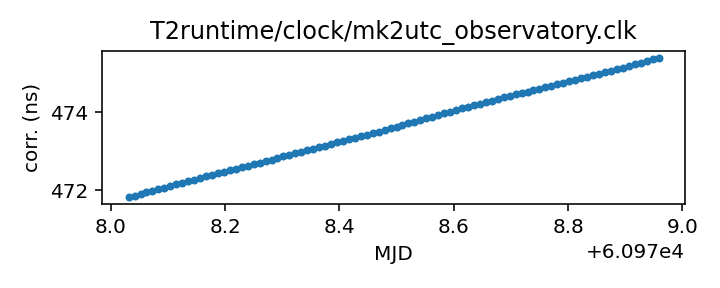
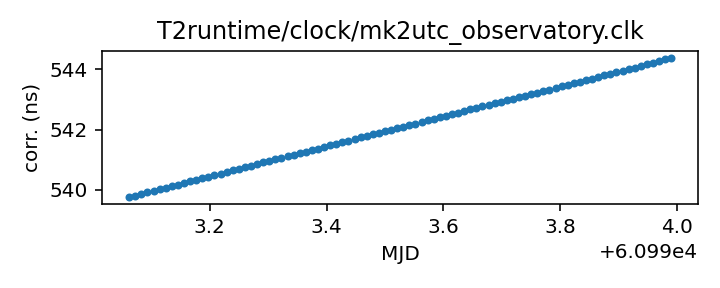
Routine gh-pages update from Github action Mon Nov 24 20:42:45 UTC 2025

diff --git a/status.md b/status.md
@@ -13,18 +13,18 @@ name of each clock file links to a page with more details.
 
 | Name | File | Corrections start | Corrections end | Last check date | Last check result 
 |:--- |:--- | --- | --- | --- |:--- 
-| [GPS to UTC](T2runtime/clock/gps2utc.clk.html) | `T2runtime/clock/gps2utc.clk` | 1993-01-01 MJD 48988.0 | 2025-10-31 MJD 60979.0 | 2025-11-23 | Unchanged 
-| [GPS to UTC (Combined Clock)](T2runtime/clock/gps2utc_cc.clk.html) | `T2runtime/clock/gps2utc_cc.clk` | 1993-01-01 MJD 48988.0 | 2025-10-31 MJD 60979.0 | 2025-11-23 | Unchanged 
-| [GPS to UTC (Corrected)](T2runtime/clock/gps2utc_c0p.clk.html) | `T2runtime/clock/gps2utc_c0p.clk` | 2010-12-29 MJD 55559.0 | 2025-10-31 MJD 60979.0 | 2025-11-23 | Unchanged 
-| [GBT](tempo/clock/time_gbt.dat.html) | `tempo/clock/time_gbt.dat` | 2000-12-31 MJD 51909.5 | 2025-11-22 MJD 61001.5 | 2025-11-23 | Updated 
-| [GBT (TEMPO2 converted from TEMPO)](T2runtime/clock/gbt2gps.clk.html) | `T2runtime/clock/gbt2gps.clk` | 2000-12-31 MJD 51909.5 | 2024-05-18 MJD 60448.5 | 2025-11-23 | **Validation failed** 
-| [Jodrell Bank](T2runtime/clock/jb2gps.clk.html) | `T2runtime/clock/jb2gps.clk` | 2006-10-13 MJD 54021.4 | 2025-10-08 MJD 60956.0 | 2025-11-17 | Unchanged 
-| [Jodrell Bank Roach](T2runtime/clock/jbroach2jb.clk.html) | `T2runtime/clock/jbroach2jb.clk` | 2006-10-13 MJD 54021.4 | 2018-03-20 MJD 58197.6 | 2025-11-17 | Unchanged 
-| [Jodrell Bank DFB](T2runtime/clock/jbdfb2jb.clk.html) | `T2runtime/clock/jbdfb2jb.clk` | 2006-10-13 MJD 54021.4 | 2021-02-22 MJD 59268.0 | 2025-11-17 | Unchanged 
-| [Meerkat (observatory)](T2runtime/clock/mk2utc_observatory.clk.html) | `T2runtime/clock/mk2utc_observatory.clk` | 2019-01-01 MJD 58484.0 | 2025-10-30 MJD 60979.0 | 2025-11-17 | Updated 
-| [Leap seconds](tempo/clock/leap.sec.html) | `tempo/clock/leap.sec` | 1972-07-01 MJD 41499.0 | 2017-01-01 MJD 57754.0 | 2025-11-23 | Unchanged 
-| [UT1 table](tempo/clock/ut1.dat.html) | `tempo/clock/ut1.dat` | 1973-01-02 MJD 41684.0 | 2026-11-28 MJD 61372.0 | 2025-11-23 | Unchanged 
-| [UT1 table](T2runtime/clock/ut1.dat.html) | `T2runtime/clock/ut1.dat` | 1973-01-02 MJD 41684.0 | 2026-11-28 MJD 61372.0 | 2025-11-23 | Unchanged 
+| [GPS to UTC](T2runtime/clock/gps2utc.clk.html) | `T2runtime/clock/gps2utc.clk` | 1993-01-01 MJD 48988.0 | 2025-10-31 MJD 60979.0 | 2025-11-24 | Unchanged 
+| [GPS to UTC (Combined Clock)](T2runtime/clock/gps2utc_cc.clk.html) | `T2runtime/clock/gps2utc_cc.clk` | 1993-01-01 MJD 48988.0 | 2025-10-31 MJD 60979.0 | 2025-11-24 | Unchanged 
+| [GPS to UTC (Corrected)](T2runtime/clock/gps2utc_c0p.clk.html) | `T2runtime/clock/gps2utc_c0p.clk` | 2010-12-29 MJD 55559.0 | 2025-10-31 MJD 60979.0 | 2025-11-24 | Unchanged 
+| [GBT](tempo/clock/time_gbt.dat.html) | `tempo/clock/time_gbt.dat` | 2000-12-31 MJD 51909.5 | 2025-11-23 MJD 61002.5 | 2025-11-24 | Updated 
+| [GBT (TEMPO2 converted from TEMPO)](T2runtime/clock/gbt2gps.clk.html) | `T2runtime/clock/gbt2gps.clk` | 2000-12-31 MJD 51909.5 | 2024-05-18 MJD 60448.5 | 2025-11-24 | **Validation failed** 
+| [Jodrell Bank](T2runtime/clock/jb2gps.clk.html) | `T2runtime/clock/jb2gps.clk` | 2006-10-13 MJD 54021.4 | 2025-10-08 MJD 60956.0 | 2025-11-24 | Unchanged 
+| [Jodrell Bank Roach](T2runtime/clock/jbroach2jb.clk.html) | `T2runtime/clock/jbroach2jb.clk` | 2006-10-13 MJD 54021.4 | 2018-03-20 MJD 58197.6 | 2025-11-24 | Unchanged 
+| [Jodrell Bank DFB](T2runtime/clock/jbdfb2jb.clk.html) | `T2runtime/clock/jbdfb2jb.clk` | 2006-10-13 MJD 54021.4 | 2021-02-22 MJD 59268.0 | 2025-11-24 | Unchanged 
+| [Meerkat (observatory)](T2runtime/clock/mk2utc_observatory.clk.html) | `T2runtime/clock/mk2utc_observatory.clk` | 2019-01-01 MJD 58484.0 | 2025-11-14 MJD 60994.0 | 2025-11-24 | Updated 
+| [Leap seconds](tempo/clock/leap.sec.html) | `tempo/clock/leap.sec` | 1972-07-01 MJD 41499.0 | 2017-01-01 MJD 57754.0 | 2025-11-24 | Unchanged 
+| [UT1 table](tempo/clock/ut1.dat.html) | `tempo/clock/ut1.dat` | 1973-01-02 MJD 41684.0 | 2026-11-28 MJD 61372.0 | 2025-11-24 | Unchanged 
+| [UT1 table](T2runtime/clock/ut1.dat.html) | `T2runtime/clock/ut1.dat` | 1973-01-02 MJD 41684.0 | 2026-11-28 MJD 61372.0 | 2025-11-24 | Unchanged 
 
 
 
@@ -68,26 +68,26 @@ name of each clock file links to a page with more details.
 
 | Name | File | Corrections start | Corrections end | Last check date | Last check result 
 |:--- |:--- | --- | --- | --- |:--- 
-| [GPS to UTC (TEMPO2)](T2runtime/clock/gpst2utc_tempo2.clk.html) | `T2runtime/clock/gpst2utc_tempo2.clk` | 1993-01-01 MJD 48988.0 | 2024-12-30 MJD 60674.0 | 2025-11-17 | Unchanged 
-| [GBT (TEMPO2)](T2runtime/clock/gbt2gps_tempo2.clk.html) | `T2runtime/clock/gbt2gps_tempo2.clk` | 2000-12-31 MJD 51909.5 | 2020-02-25 MJD 58904.5 | 2025-11-17 | Unchanged 
-| [Jodrell Bank (TEMPO)](tempo/clock/time_jb.dat.html) | `tempo/clock/time_jb.dat` | 2006-10-13 MJD 54021.4 | 2019-05-13 MJD 58616.2 | 2025-11-17 | Unchanged 
-| [VLA](tempo/clock/time_vla.dat.html) | `tempo/clock/time_vla.dat` | 1990-10-27 MJD 48191.2 | 2025-02-10 MJD 60716.2 | 2025-11-17 | Unchanged 
-| [VLA (TEMPO2)](T2runtime/clock/vla2gps.clk.html) | `T2runtime/clock/vla2gps.clk` | 2015-02-01 MJD 57054.6 | 2025-02-10 MJD 60716.2 | 2025-11-17 | Unchanged 
-| [VLA to NIST](T2runtime/clock/vla2nist.clk.html) | `T2runtime/clock/vla2nist.clk` | 1990-10-27 MJD 48191.2 | 1993-11-13 MJD 49304.0 | 2025-11-17 | Unchanged 
-| [FAST](tempo/clock/time_fast.dat.html) | `tempo/clock/time_fast.dat` | 2017-07-27 MJD 57961.0 | 2025-08-25 MJD 60913.0 | 2025-11-17 | **Failed to download** 
-| [WSRT](T2runtime/clock/wsrt2gps.clk.html) | `T2runtime/clock/wsrt2gps.clk` | 1999-01-01 MJD 51179.5 | 2015-06-29 MJD 57202.1 | 2025-11-17 | Unchanged 
-| [WSRT (TEMPO)](tempo/clock/time_wsrt.dat.html) | `tempo/clock/time_wsrt.dat` | 1987-07-24 MJD 47000.0 | 2007-12-24 MJD 54458.0 | 2025-11-17 | **Validation failed** 
-| [Parkes](T2runtime/clock/pks2gps.clk.html) | `T2runtime/clock/pks2gps.clk` | 1858-11-17 MJD 0.0 | 2025-10-31 MJD 60979.1 | 2025-11-17 | Unchanged 
-| [Parkes (TEMPO)](tempo/clock/time_pks.dat.html) | `tempo/clock/time_pks.dat` | 1979-05-07 MJD 44000.0 | 2011-07-03 MJD 55745.8 | 2025-11-17 | Unchanged 
-| [SRT](T2runtime/clock/srt2gps.clk.html) | `T2runtime/clock/srt2gps.clk` | 2013-03-20 MJD 56371.0 | 2019-12-11 MJD 58828.0 | 2025-11-17 | Unchanged 
-| [Effelsberg](T2runtime/clock/eff2gps.clk.html) | `T2runtime/clock/eff2gps.clk` | 1993-11-29 MJD 49320.0 | 2015-06-22 MJD 57195.5 | 2025-11-17 | Unchanged 
-| [Effelsberg Asterix/PSRix](T2runtime/clock/effix2gps.clk.html) | `T2runtime/clock/effix2gps.clk` | 2011-01-01 MJD 55562.5 | 2021-03-21 MJD 59294.5 | 2025-11-17 | Unchanged 
-| [LEAP](T2runtime/clock/leap2effix.clk.html) | `T2runtime/clock/leap2effix.clk` | 2012-10-29 MJD 56230.0 | 2014-03-04 MJD 56720.0 | 2025-11-17 | Unchanged 
-| [NUPPI](tempo/clock/time_nuppi.dat.html) | `tempo/clock/time_nuppi.dat` | 2005-03-07 MJD 53436.0 | 2015-11-08 MJD 57334.6 | 2025-11-17 | Unchanged 
-| [Meerkat (TEMPO2)](T2runtime/clock/mk2utc.clk.html) | `T2runtime/clock/mk2utc.clk` | 2019-01-01 MJD 58484.0 | 2024-09-23 MJD 60576.9 | 2025-11-17 | **Validation failed** 
-| [MOST](T2runtime/clock/mo2gps.clk.html) | `T2runtime/clock/mo2gps.clk` | 2003-12-27 MJD 53000.0 | 2018-09-06 MJD 58367.0 | 2025-11-17 | Unchanged 
-| [Nancay to obspm](T2runtime/clock/ncyobs2obspm.clk.html) | `T2runtime/clock/ncyobs2obspm.clk` | 1988-05-18 MJD 47299.6 | 2024-12-30 MJD 60674.0 | 2025-11-17 | Unchanged 
-| [obspm](T2runtime/clock/obspm2gps.clk.html) | `T2runtime/clock/obspm2gps.clk` | 2003-12-01 MJD 52974.0 | 2023-10-27 MJD 60244.0 | 2025-11-17 | Unchanged 
+| [GPS to UTC (TEMPO2)](T2runtime/clock/gpst2utc_tempo2.clk.html) | `T2runtime/clock/gpst2utc_tempo2.clk` | 1993-01-01 MJD 48988.0 | 2024-12-30 MJD 60674.0 | 2025-11-24 | Unchanged 
+| [GBT (TEMPO2)](T2runtime/clock/gbt2gps_tempo2.clk.html) | `T2runtime/clock/gbt2gps_tempo2.clk` | 2000-12-31 MJD 51909.5 | 2020-02-25 MJD 58904.5 | 2025-11-24 | Unchanged 
+| [Jodrell Bank (TEMPO)](tempo/clock/time_jb.dat.html) | `tempo/clock/time_jb.dat` | 2006-10-13 MJD 54021.4 | 2019-05-13 MJD 58616.2 | 2025-11-24 | Unchanged 
+| [VLA](tempo/clock/time_vla.dat.html) | `tempo/clock/time_vla.dat` | 1990-10-27 MJD 48191.2 | 2025-02-10 MJD 60716.2 | 2025-11-24 | Unchanged 
+| [VLA (TEMPO2)](T2runtime/clock/vla2gps.clk.html) | `T2runtime/clock/vla2gps.clk` | 2015-02-01 MJD 57054.6 | 2025-02-10 MJD 60716.2 | 2025-11-24 | Unchanged 
+| [VLA to NIST](T2runtime/clock/vla2nist.clk.html) | `T2runtime/clock/vla2nist.clk` | 1990-10-27 MJD 48191.2 | 1993-11-13 MJD 49304.0 | 2025-11-24 | Unchanged 
+| [FAST](tempo/clock/time_fast.dat.html) | `tempo/clock/time_fast.dat` | 2017-07-27 MJD 57961.0 | 2025-08-25 MJD 60913.0 | 2025-11-24 | **Failed to download** 
+| [WSRT](T2runtime/clock/wsrt2gps.clk.html) | `T2runtime/clock/wsrt2gps.clk` | 1999-01-01 MJD 51179.5 | 2015-06-29 MJD 57202.1 | 2025-11-24 | Unchanged 
+| [WSRT (TEMPO)](tempo/clock/time_wsrt.dat.html) | `tempo/clock/time_wsrt.dat` | 1987-07-24 MJD 47000.0 | 2007-12-24 MJD 54458.0 | 2025-11-24 | **Validation failed** 
+| [Parkes](T2runtime/clock/pks2gps.clk.html) | `T2runtime/clock/pks2gps.clk` | 1858-11-17 MJD 0.0 | 2025-10-31 MJD 60979.1 | 2025-11-24 | Unchanged 
+| [Parkes (TEMPO)](tempo/clock/time_pks.dat.html) | `tempo/clock/time_pks.dat` | 1979-05-07 MJD 44000.0 | 2011-07-03 MJD 55745.8 | 2025-11-24 | Unchanged 
+| [SRT](T2runtime/clock/srt2gps.clk.html) | `T2runtime/clock/srt2gps.clk` | 2013-03-20 MJD 56371.0 | 2019-12-11 MJD 58828.0 | 2025-11-24 | Unchanged 
+| [Effelsberg](T2runtime/clock/eff2gps.clk.html) | `T2runtime/clock/eff2gps.clk` | 1993-11-29 MJD 49320.0 | 2015-06-22 MJD 57195.5 | 2025-11-24 | Unchanged 
+| [Effelsberg Asterix/PSRix](T2runtime/clock/effix2gps.clk.html) | `T2runtime/clock/effix2gps.clk` | 2011-01-01 MJD 55562.5 | 2021-03-21 MJD 59294.5 | 2025-11-24 | Unchanged 
+| [LEAP](T2runtime/clock/leap2effix.clk.html) | `T2runtime/clock/leap2effix.clk` | 2012-10-29 MJD 56230.0 | 2014-03-04 MJD 56720.0 | 2025-11-24 | Unchanged 
+| [NUPPI](tempo/clock/time_nuppi.dat.html) | `tempo/clock/time_nuppi.dat` | 2005-03-07 MJD 53436.0 | 2015-11-08 MJD 57334.6 | 2025-11-24 | Unchanged 
+| [Meerkat (TEMPO2)](T2runtime/clock/mk2utc.clk.html) | `T2runtime/clock/mk2utc.clk` | 2019-01-01 MJD 58484.0 | 2024-09-23 MJD 60576.9 | 2025-11-24 | **Validation failed** 
+| [MOST](T2runtime/clock/mo2gps.clk.html) | `T2runtime/clock/mo2gps.clk` | 2003-12-27 MJD 53000.0 | 2018-09-06 MJD 58367.0 | 2025-11-24 | Unchanged 
+| [Nancay to obspm](T2runtime/clock/ncyobs2obspm.clk.html) | `T2runtime/clock/ncyobs2obspm.clk` | 1988-05-18 MJD 47299.6 | 2024-12-30 MJD 60674.0 | 2025-11-24 | Unchanged 
+| [obspm](T2runtime/clock/obspm2gps.clk.html) | `T2runtime/clock/obspm2gps.clk` | 2003-12-01 MJD 52974.0 | 2023-10-27 MJD 60244.0 | 2025-11-24 | Unchanged 
 
 
 ### Further information:

diff --git a/T2runtime/clock/mk2utc_observatory.clk.md b/T2runtime/clock/mk2utc_observatory.clk.md
@@ -19,14 +19,13 @@ If questions arise, contact Ryan Shannon <rshannon@swin.edu.au>
 | Format | tempo2 |
 | Bogus last correction | False |
 | Clock file start | 2019-01-01 MJD 58484.0 |
-| Clock file end | 2025-10-30 MJD 60979.0 |
+| Clock file end | 2025-11-14 MJD 60994.0 |
 | Update interval (days) | 7 |
-| Last update attempt | 2025-11-17 |
+| Last update attempt | 2025-11-24 |
 | Last update result | Updated |
 
 Log entries from the last few update attempts:
 ```
-2025-09-15 20:38:23.219 - Unchanged
 2025-09-22 20:40:19.530 - Validation failed: Unable to read new version of T2runtime/clock/mk2utc_observatory.clk: Clock file /tmp/astropy-download-3290-2dyj3b3u appears to be out of order: 60933.96875 > 60929.0
 2025-09-29 20:37:22.935 - Validation failed: Unable to read new version of T2runtime/clock/mk2utc_observatory.clk: Clock file /tmp/astropy-download-3302-dwp2zb0z appears to be out of order: 60933.96875 > 60929.0
 2025-10-06 20:40:07.077 - Validation failed: Unable to read new version of T2runtime/clock/mk2utc_observatory.clk: Clock file /tmp/astropy-download-3288-vga3zoa1 appears to be out of order: 60933.96875 > 60929.0
@@ -36,6 +35,7 @@ Log entries from the last few update attempts:
 2025-11-03 20:42:59.579 - Unchanged
 2025-11-10 20:44:57.437 - Failed to download: <urlopen error _ssl.c:999: The handshake operation timed out>
 2025-11-17 20:41:48.816 - Updated
+2025-11-24 20:42:17.159 - Updated
 ```
 [Full log](https://raw.githubusercontent.com/ipta/pulsar-clock-corrections/main/log/T2runtime/clock/mk2utc_observatory.clk.log)
 
@@ -44,7 +44,7 @@ Leading comments from clock file:
     # Tie of Karoo Telescope Time to UTC
     # This file is from the KTT-GNSS sensor, and does not include circular-T
     # MJD = (SensorTime(us)/86400e6)+40587    15-minute snapshots
-    # Created at unix time 1762257342.154564 from KTT mySQL database.
+    # Created at unix time 1763626920.271524 from KTT mySQL database.
     #
     # MJD (days)   KTT-UTC (seconds)
     #------------------------------------------------------

diff --git a/T2runtime/clock/gbt2gps.clk.md b/T2runtime/clock/gbt2gps.clk.md
@@ -25,12 +25,11 @@ If questions arise about the conversion, contact Anne Archibald
 | Clock file start | 2000-12-31 MJD 51909.5 |
 | Clock file end | 2024-05-18 MJD 60448.5 |
 | Update interval (days) | 1 |
-| Last update attempt | 2025-11-23 |
+| Last update attempt | 2025-11-24 |
 | Last update result | Validation failed |
 
 Log entries from the last few update attempts:
 ```
-2025-11-13 20:43:23.608 - Validation failed: New version of T2runtime/clock/gbt2gps.clk MJDs differ from old version where they overlap in 8407 places
 2025-11-14 20:42:18.795 - Validation failed: New version of T2runtime/clock/gbt2gps.clk MJDs differ from old version where they overlap in 8407 places
 2025-11-15 20:37:59.275 - Validation failed: New version of T2runtime/clock/gbt2gps.clk MJDs differ from old version where they overlap in 8407 places
 2025-11-16 20:40:00.662 - Validation failed: New version of T2runtime/clock/gbt2gps.clk MJDs differ from old version where they overlap in 8407 places
@@ -40,6 +39,7 @@ Log entries from the last few update attempts:
 2025-11-21 20:42:46.605 - Validation failed: New version of T2runtime/clock/gbt2gps.clk MJDs differ from old version where they overlap in 8407 places
 2025-11-22 20:40:08.749 - Validation failed: New version of T2runtime/clock/gbt2gps.clk MJDs differ from old version where they overlap in 8407 places
 2025-11-23 20:41:32.231 - Validation failed: New version of T2runtime/clock/gbt2gps.clk MJDs differ from old version where they overlap in 8407 places
+2025-11-24 20:42:02.414 - Validation failed: New version of T2runtime/clock/gbt2gps.clk MJDs differ from old version where they overlap in 8407 places
 ```
 [Full log](https://raw.githubusercontent.com/ipta/pulsar-clock-corrections/main/log/T2runtime/clock/gbt2gps.clk.log)
 

diff --git a/T2runtime/clock/mk2utc.clk.md b/T2runtime/clock/mk2utc.clk.md
@@ -17,12 +17,11 @@ up-to-date.
 | Clock file start | 2019-01-01 MJD 58484.0 |
 | Clock file end | 2024-09-23 MJD 60576.9 |
 | Update interval (days) | 7 |
-| Last update attempt | 2025-11-17 |
+| Last update attempt | 2025-11-24 |
 | Last update result | Validation failed |
 
 Log entries from the last few update attempts:
 ```
-2025-09-15 20:38:24.488 - Validation failed: New version of T2runtime/clock/mk2utc.clk MJDs differ from old version where they overlap in 8252 places
 2025-09-22 20:40:21.203 - Validation failed: New version of T2runtime/clock/mk2utc.clk MJDs differ from old version where they overlap in 8252 places
 2025-09-29 20:37:24.227 - Validation failed: New version of T2runtime/clock/mk2utc.clk MJDs differ from old version where they overlap in 8252 places
 2025-10-06 20:40:08.391 - Validation failed: New version of T2runtime/clock/mk2utc.clk MJDs differ from old version where they overlap in 8252 places
@@ -32,6 +31,7 @@ Log entries from the last few update attempts:
 2025-11-03 20:43:01.067 - Validation failed: New version of T2runtime/clock/mk2utc.clk MJDs differ from old version where they overlap in 8252 places
 2025-11-10 20:44:59.209 - Validation failed: New version of T2runtime/clock/mk2utc.clk MJDs differ from old version where they overlap in 8252 places
 2025-11-17 20:41:50.637 - Validation failed: New version of T2runtime/clock/mk2utc.clk MJDs differ from old version where they overlap in 8252 places
+2025-11-24 20:42:18.833 - Validation failed: New version of T2runtime/clock/mk2utc.clk MJDs differ from old version where they overlap in 8252 places
 ```
 [Full log](https://raw.githubusercontent.com/ipta/pulsar-clock-corrections/main/log/T2runtime/clock/mk2utc.clk.log)
 

diff --git a/tempo/clock/time_wsrt.dat.md b/tempo/clock/time_wsrt.dat.md
@@ -20,12 +20,11 @@ should be the same information.
 | Clock file start | 1987-07-24 MJD 47000.0 |
 | Clock file end | 2007-12-24 MJD 54458.0 |
 | Update interval (days) | 7 |
-| Last update attempt | 2025-11-17 |
+| Last update attempt | 2025-11-24 |
 | Last update result | Validation failed |
 
 Log entries from the last few update attempts:
 ```
-2025-09-15 20:38:14.339 - Validation failed: New version of tempo/clock/time_wsrt.dat MJDs differ from old version where they overlap in 5 places
 2025-09-22 20:40:04.220 - Validation failed: New version of tempo/clock/time_wsrt.dat MJDs differ from old version where they overlap in 5 places
 2025-09-29 20:37:17.520 - Validation failed: New version of tempo/clock/time_wsrt.dat MJDs differ from old version where they overlap in 5 places
 2025-10-06 20:39:57.443 - Validation failed: New version of tempo/clock/time_wsrt.dat MJDs differ from old version where they overlap in 5 places
@@ -35,6 +34,7 @@ Log entries from the last few update attempts:
 2025-11-03 20:42:27.208 - Validation failed: New version of tempo/clock/time_wsrt.dat MJDs differ from old version where they overlap in 5 places
 2025-11-10 20:44:41.093 - Validation failed: New version of tempo/clock/time_wsrt.dat MJDs differ from old version where they overlap in 5 places
 2025-11-17 20:41:29.092 - Validation failed: New version of tempo/clock/time_wsrt.dat MJDs differ from old version where they overlap in 5 places
+2025-11-24 20:42:06.542 - Validation failed: New version of tempo/clock/time_wsrt.dat MJDs differ from old version where they overlap in 5 places
 ```
 [Full log](https://raw.githubusercontent.com/ipta/pulsar-clock-corrections/main/log/tempo/clock/time_wsrt.dat.log)
 

diff --git a/tempo/clock/time_gbt.dat.md b/tempo/clock/time_gbt.dat.md
@@ -36,14 +36,13 @@ If questions arise, contact Ryan S. Lynch <rlynch@nrao.edu>.
 | Format | tempo |
 | Bogus last correction | False |
 | Clock file start | 2000-12-31 MJD 51909.5 |
-| Clock file end | 2025-11-22 MJD 61001.5 |
+| Clock file end | 2025-11-23 MJD 61002.5 |
 | Update interval (days) | 1 |
-| Last update attempt | 2025-11-23 |
+| Last update attempt | 2025-11-24 |
 | Last update result | Updated |
 
 Log entries from the last few update attempts:
 ```
-2025-11-13 20:43:23.541 - Updated
 2025-11-14 20:42:18.731 - Updated
 2025-11-15 20:37:59.208 - Updated
 2025-11-16 20:40:00.594 - Updated
@@ -53,12 +52,13 @@ Log entries from the last few update attempts:
 2025-11-21 20:42:46.537 - Updated
 2025-11-22 20:40:08.679 - Updated
 2025-11-23 20:41:32.165 - Updated
+2025-11-24 20:42:01.860 - Updated
 ```
 [Full log](https://raw.githubusercontent.com/ipta/pulsar-clock-corrections/main/log/tempo/clock/time_gbt.dat.log)
 
 Leading comments from clock file:
 
-     -2271.50       0.0        -0.486 1    32764-dec
+     -2271.50       0.0        -0.486 1    32765-dec
 
 
 

diff --git a/tempo/clock/time_fast.dat.md b/tempo/clock/time_fast.dat.md
@@ -16,12 +16,11 @@ This file is pulled from the FAST_ClockFile repository.
 | Clock file start | 2017-07-27 MJD 57961.0 |
 | Clock file end | 2025-08-25 MJD 60913.0 |
 | Update interval (days) | 7 |
-| Last update attempt | 2025-11-17 |
+| Last update attempt | 2025-11-24 |
 | Last update result | Failed to download |
 
 Log entries from the last few update attempts:
 ```
-2025-09-15 20:38:13.792 - Unchanged
 2025-09-22 20:40:03.597 - Unchanged
 2025-09-29 20:37:16.851 - Unchanged
 2025-10-06 20:39:56.798 - Unchanged
@@ -31,6 +30,7 @@ Log entries from the last few update attempts:
 2025-11-03 20:42:26.602 - Failed to download: HTTP Error 404: Not Found
 2025-11-10 20:44:40.322 - Failed to download: HTTP Error 404: Not Found
 2025-11-17 20:41:28.304 - Failed to download: HTTP Error 404: Not Found
+2025-11-24 20:42:05.814 - Failed to download: HTTP Error 404: Not Found
 ```
 [Full log](https://raw.githubusercontent.com/ipta/pulsar-clock-corrections/main/log/tempo/clock/time_fast.dat.log)
 

diff --git a/T2runtime/clock/pks2gps.clk.md b/T2runtime/clock/pks2gps.clk.md
@@ -35,12 +35,11 @@ we retain it.
 | Clock file start | 1858-11-17 MJD 0.0 |
 | Clock file end | 2025-10-31 MJD 60979.1 |
 | Update interval (days) | 7 |
-| Last update attempt | 2025-11-17 |
+| Last update attempt | 2025-11-24 |
 | Last update result | Unchanged |
 
 Log entries from the last few update attempts:
 ```
-2025-09-15 20:38:19.101 - Unchanged
 2025-09-22 20:40:08.004 - Unchanged
 2025-09-29 20:37:17.888 - Validation failed: New version of T2runtime/clock/pks2gps.clk has decreased from 46535 to 46325 measurements.
 2025-10-06 20:40:02.012 - Unchanged
@@ -50,6 +49,7 @@ Log entries from the last few update attempts:
 2025-11-03 20:42:31.755 - Updated
 2025-11-10 20:44:44.539 - Unchanged
 2025-11-17 20:41:32.854 - Unchanged
+2025-11-24 20:42:09.805 - Unchanged
 ```
 [Full log](https://raw.githubusercontent.com/ipta/pulsar-clock-corrections/main/log/T2runtime/clock/pks2gps.clk.log)
 

diff --git a/T2runtime/clock/gps2utc_c0p.clk.md b/T2runtime/clock/gps2utc_c0p.clk.md
@@ -30,12 +30,11 @@ about the BIPM's published corrections, contact <tai@bipm.org>.
 | Clock file start | 2010-12-29 MJD 55559.0 |
 | Clock file end | 2025-10-31 MJD 60979.0 |
 | Update interval (days) | 1 |
-| Last update attempt | 2025-11-23 |
+| Last update attempt | 2025-11-24 |
 | Last update result | Unchanged |
 
 Log entries from the last few update attempts:
 ```
-2025-11-13 20:43:22.720 - Unchanged
 2025-11-14 20:42:17.896 - Unchanged
 2025-11-15 20:37:58.696 - Unchanged
 2025-11-16 20:40:00.196 - Unchanged
@@ -45,6 +44,7 @@ Log entries from the last few update attempts:
 2025-11-21 20:42:45.596 - Unchanged
 2025-11-22 20:40:08.255 - Unchanged
 2025-11-23 20:41:31.346 - Unchanged
+2025-11-24 20:42:01.048 - Unchanged
 ```
 [Full log](https://raw.githubusercontent.com/ipta/pulsar-clock-corrections/main/log/T2runtime/clock/gps2utc_c0p.clk.log)
 

diff --git a/T2runtime/clock/gps2utc_cc.clk.md b/T2runtime/clock/gps2utc_cc.clk.md
@@ -29,12 +29,11 @@ about the BIPM's published corrections, contact <tai@bipm.org>.
 | Clock file start | 1993-01-01 MJD 48988.0 |
 | Clock file end | 2025-10-31 MJD 60979.0 |
 | Update interval (days) | 1 |
-| Last update attempt | 2025-11-23 |
+| Last update attempt | 2025-11-24 |
 | Last update result | Unchanged |
 
 Log entries from the last few update attempts:
 ```
-2025-11-13 20:43:22.712 - Unchanged
 2025-11-14 20:42:17.889 - Unchanged
 2025-11-15 20:37:58.688 - Unchanged
 2025-11-16 20:40:00.188 - Unchanged
@@ -44,6 +43,7 @@ Log entries from the last few update attempts:
 2025-11-21 20:42:45.588 - Unchanged
 2025-11-22 20:40:08.247 - Unchanged
 2025-11-23 20:41:31.338 - Unchanged
+2025-11-24 20:42:01.041 - Unchanged
 ```
 [Full log](https://raw.githubusercontent.com/ipta/pulsar-clock-corrections/main/log/T2runtime/clock/gps2utc_cc.clk.log)
 

diff --git a/tempo/clock/time_pks.dat.md b/tempo/clock/time_pks.dat.md
@@ -20,12 +20,11 @@ telescopes in the same file, distinguished only by observatory code.
 | Clock file start | 1979-05-07 MJD 44000.0 |
 | Clock file end | 2011-07-03 MJD 55745.8 |
 | Update interval (days) | 7 |
-| Last update attempt | 2025-11-17 |
+| Last update attempt | 2025-11-24 |
 | Last update result | Unchanged |
 
 Log entries from the last few update attempts:
 ```
-2025-09-15 20:38:19.524 - Unchanged
 2025-09-22 20:40:08.275 - Unchanged
 2025-09-29 20:37:18.213 - Unchanged
 2025-10-06 20:40:02.549 - Unchanged
@@ -35,6 +34,7 @@ Log entries from the last few update attempts:
 2025-11-03 20:42:32.121 - Unchanged
 2025-11-10 20:44:44.807 - Unchanged
 2025-11-17 20:41:33.120 - Unchanged
+2025-11-24 20:42:10.059 - Unchanged
 ```
 [Full log](https://raw.githubusercontent.com/ipta/pulsar-clock-corrections/main/log/tempo/clock/time_pks.dat.log)
 

diff --git a/T2runtime/clock/gps2utc.clk.md b/T2runtime/clock/gps2utc.clk.md
@@ -32,12 +32,11 @@ about the BIPM's published corrections, contact <tai@bipm.org>.
 | Clock file start | 1993-01-01 MJD 48988.0 |
 | Clock file end | 2025-10-31 MJD 60979.0 |
 | Update interval (days) | 1 |
-| Last update attempt | 2025-11-23 |
+| Last update attempt | 2025-11-24 |
 | Last update result | Unchanged |
 
 Log entries from the last few update attempts:
 ```
-2025-11-13 20:43:22.688 - Unchanged
 2025-11-14 20:42:17.869 - Unchanged
 2025-11-15 20:37:58.666 - Unchanged
 2025-11-16 20:40:00.165 - Unchanged
@@ -47,6 +46,7 @@ Log entries from the last few update attempts:
 2025-11-21 20:42:45.566 - Unchanged
 2025-11-22 20:40:08.225 - Unchanged
 2025-11-23 20:41:31.316 - Unchanged
+2025-11-24 20:42:01.019 - Unchanged
 ```
 [Full log](https://raw.githubusercontent.com/ipta/pulsar-clock-corrections/main/log/T2runtime/clock/gps2utc.clk.log)
 
